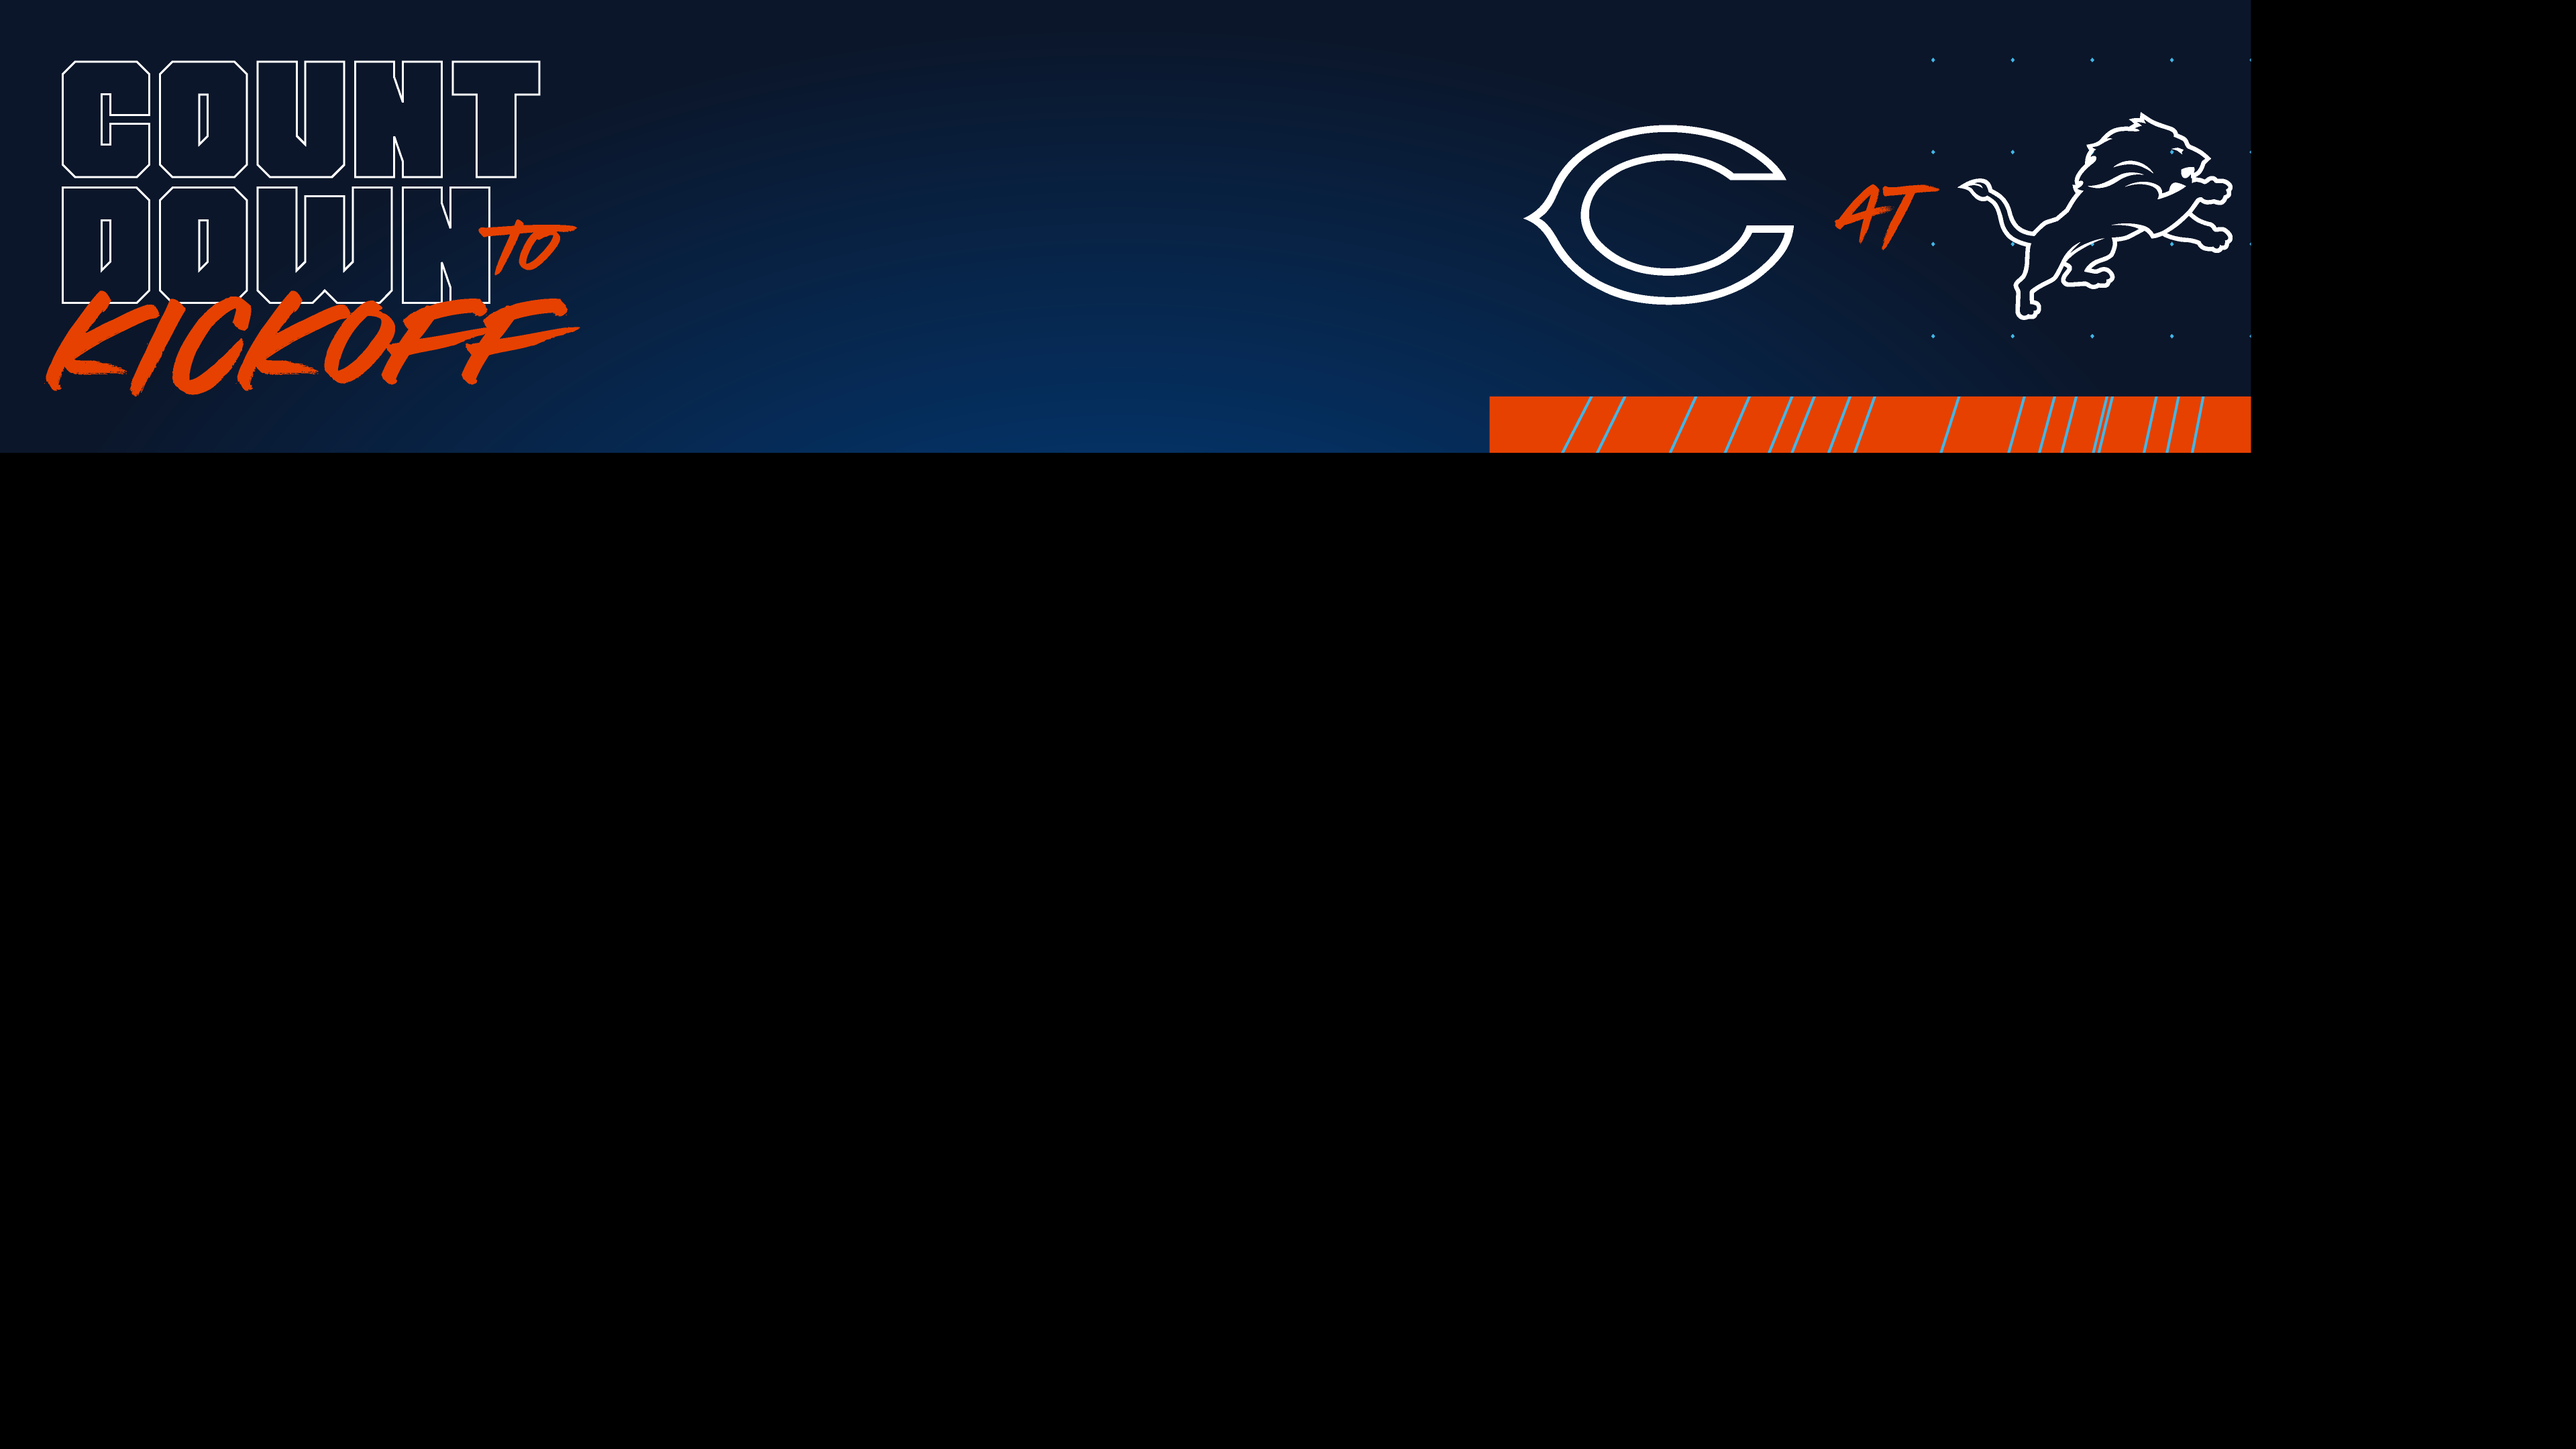
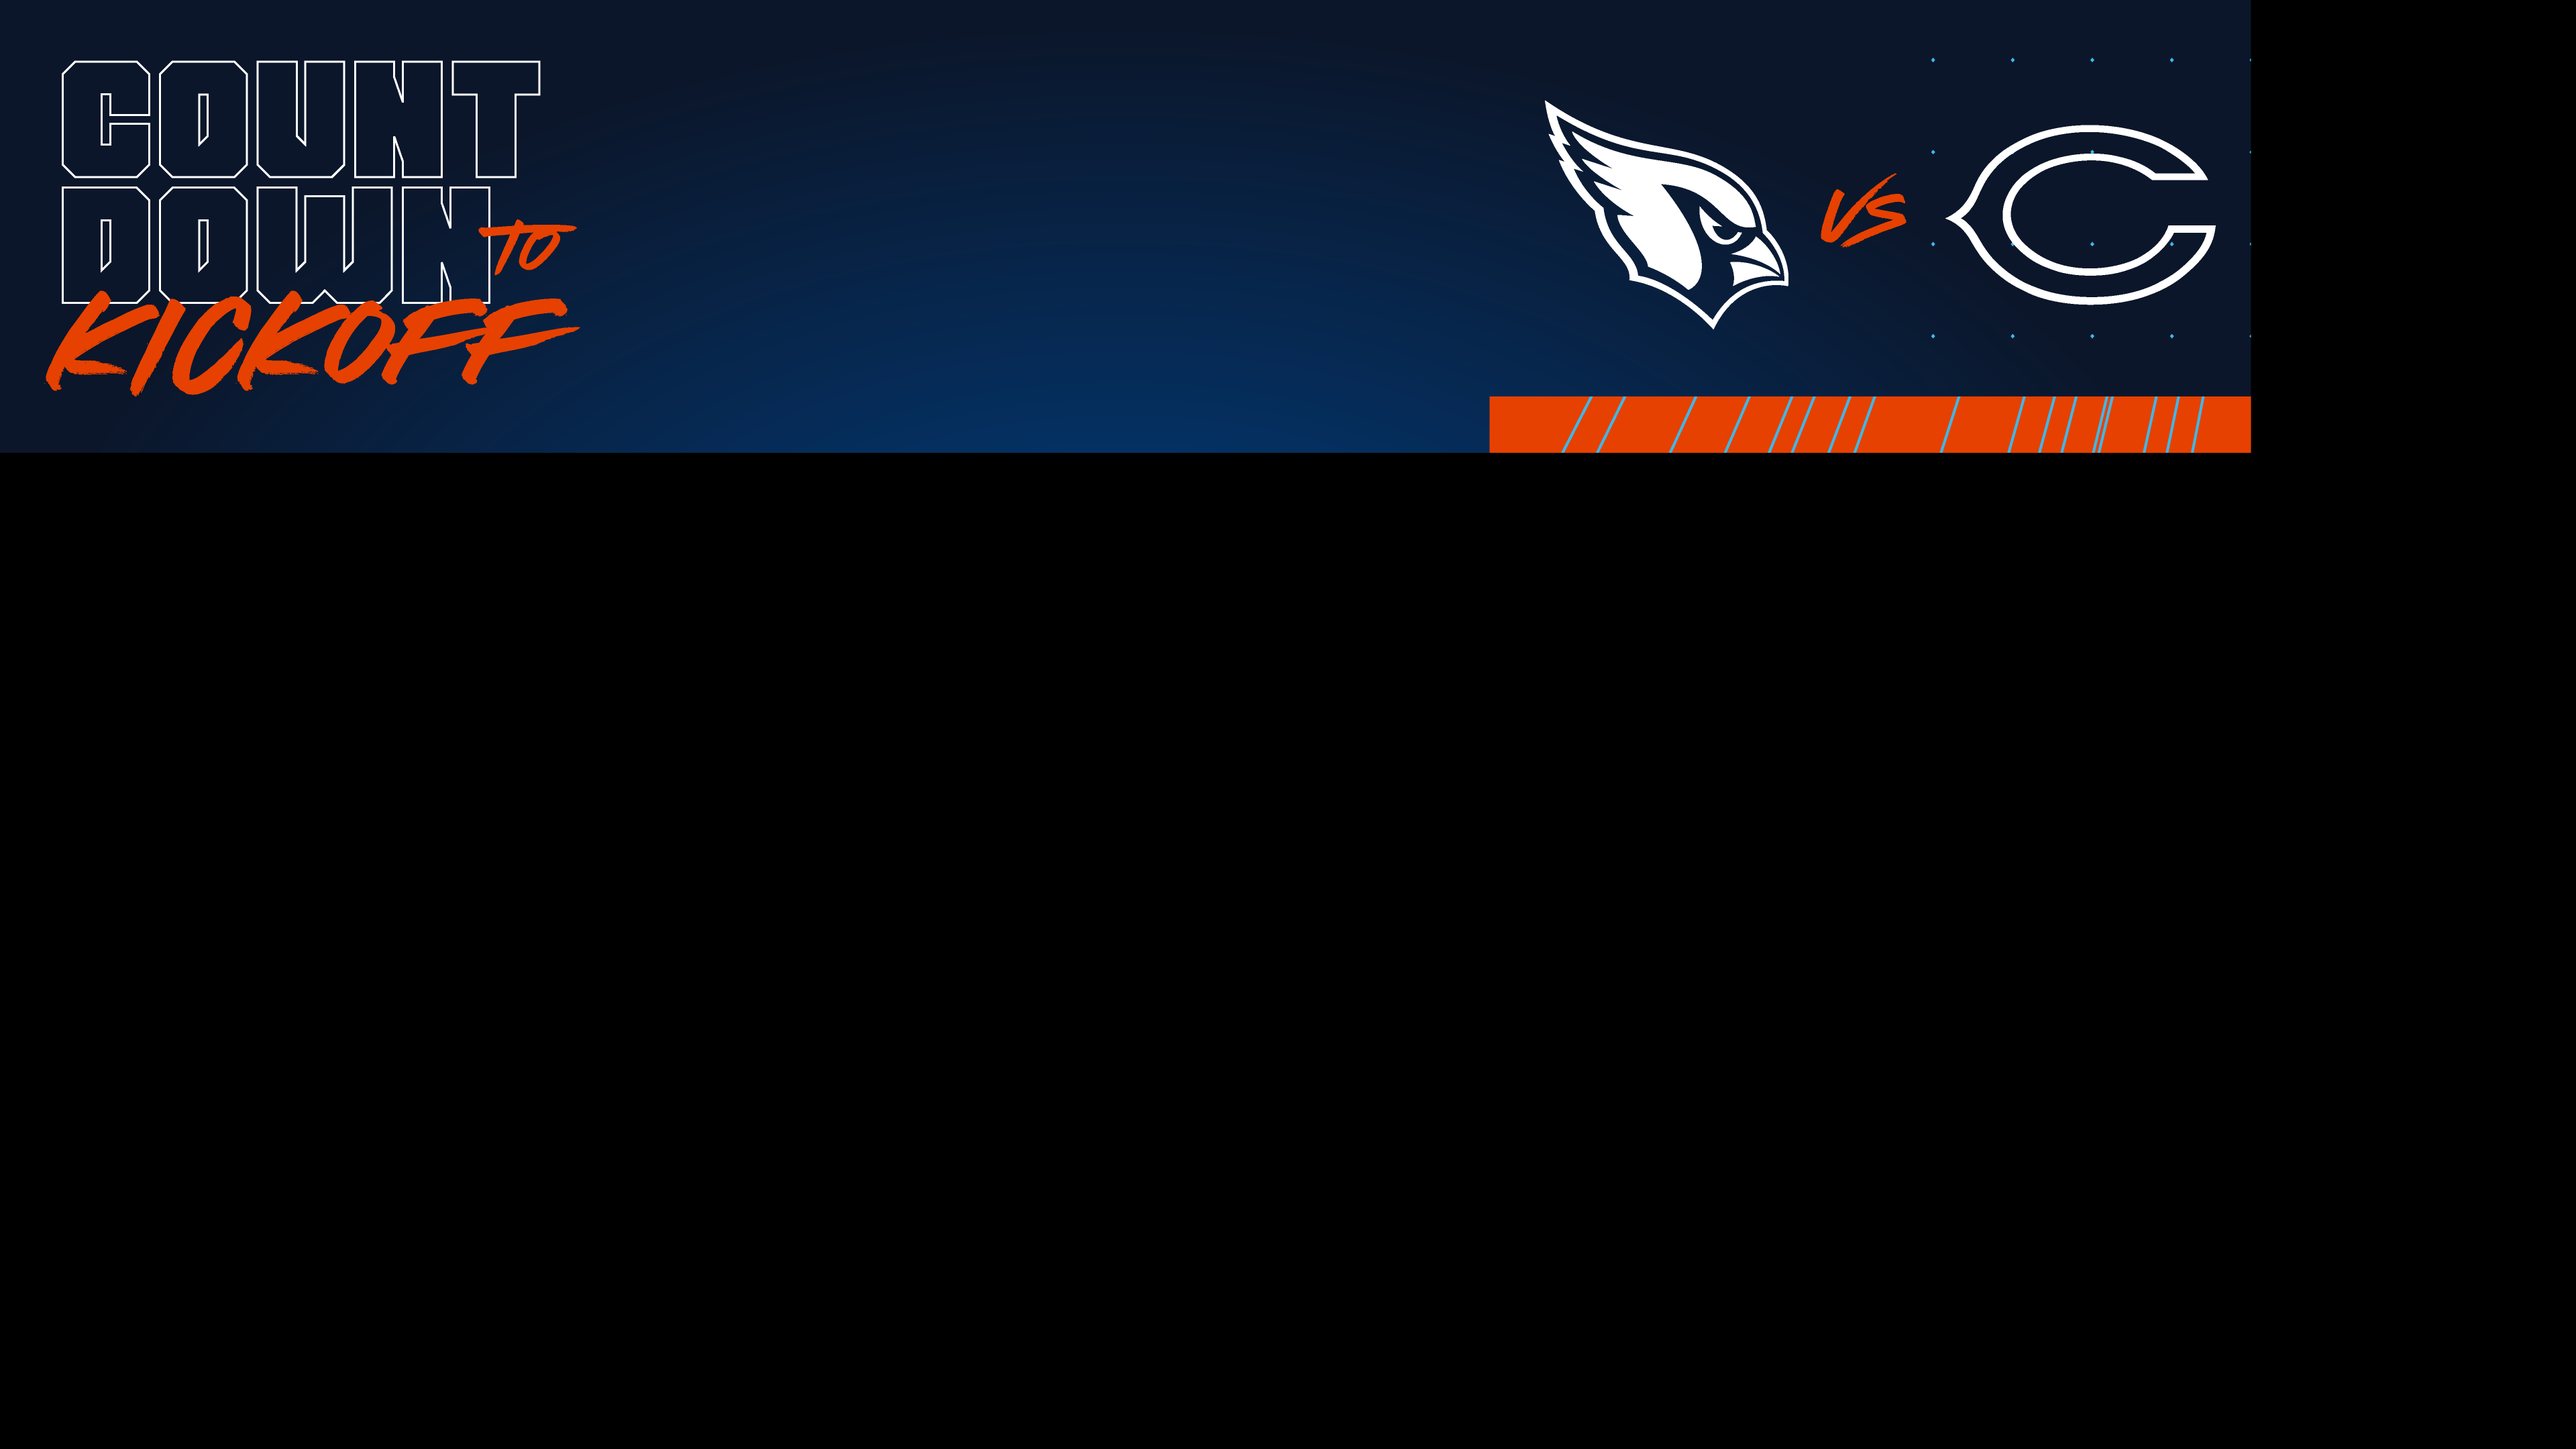
arz game

Changed region(s): [[0.5938, 0.062, 0.875, 0.2171]]

diff --git a/CurrentWeek/Horizontal/script.js b/CurrentWeek/Horizontal/script.js
@@ -68,9 +68,9 @@ $(document).ready(function(){
 			return futureFormattedDate
 		}
 		//USE 24HR MILITARY TIME
-		//DET
+		//ARZ
 		$("#countdown").countdown({
-			date: "25 November 2021 11:30:00",
+			date: "5 December 2021 12:00:00",
 			format: "on"
 		});
 	});
